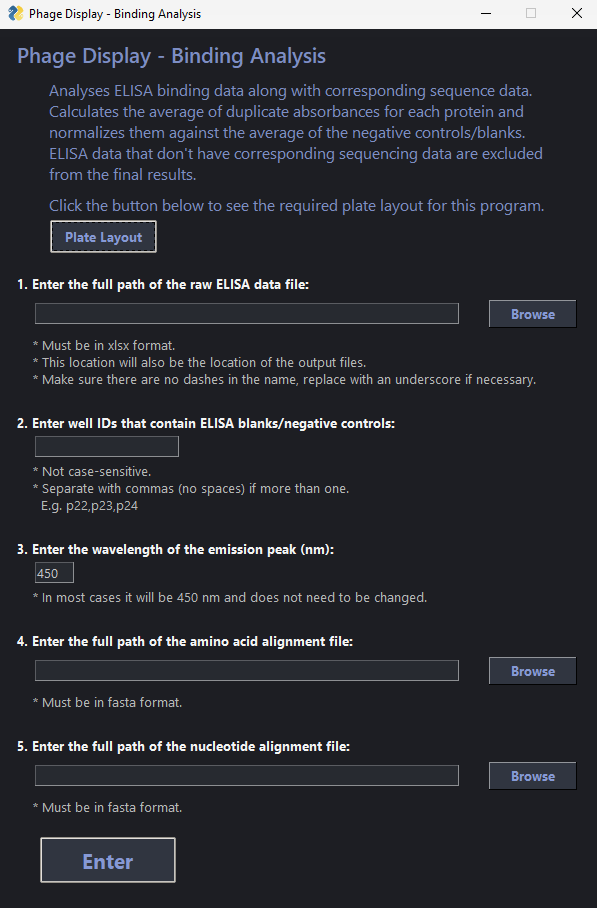
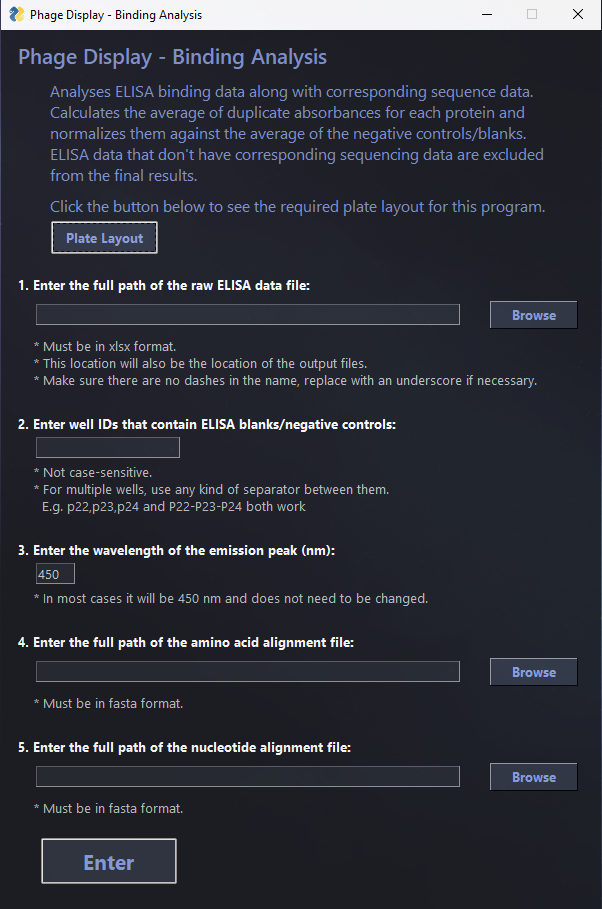
Updated readme's and Binding Analysis GUI
Made Binding Analysis file type browse include both *.xlsx and *.fasta. Fixed broken image link in Binding Analysis readme.

Added GUI images and fixed formatting errors in readme's.

diff --git a/2_bindingAnalysis/gui/source/gui_bindingAnalysis.py b/2_bindingAnalysis/gui/source/gui_bindingAnalysis.py
@@ -77,7 +77,7 @@ layout = [
               ),
      Sg.FileBrowse(font=('Segoe UI Bold', 10),
                    size=(10, 0),
-                   file_types=(('Excel Files', '*.xlsx'), ('All Files', '*.*'),)
+                   file_types=(('Excel/Fasta Files', '*.xlsx;*.fasta'), ('All Files', '*.*'),)
                    )
      ],
     [Sg.Text('''    * Must be in xlsx format.

diff --git a/2_bindingAnalysis/readme.md b/2_bindingAnalysis/readme.md
@@ -4,11 +4,14 @@ Analyses ELISA binding data along with corresponding sequence data. Calculates t
 each protein and normalizes them against the average of the negative controls/blanks. ELISA data that don't have
 corresponding sequencing data are excluded from the final results.
 
+![gui](https://user-images.githubusercontent.com/55511532/137400550-14d8f048-7b04-4d20-b35a-6f8dd54b60f6.png)
+
 ## Details:
 
-* The following ELISA plate layout must be used:
+The following ELISA plate layout must be used:
 
-<img src='https://raw.githubusercontent.com/oroscow/phageDisplayAnalysis/main/2_bindingAnalysis/gui/source/images/plateLayout.png?token=ANHQT3E6IYSNWQTJDIPROSTBMX3P4'>
+![plateLayout](https://user-images.githubusercontent.com/55511532/137400418-06778a2a-5f08-410c-a0de-a90e7cab77b0.png)
+
 
 **Input:** ELISA data (xlsx; formatting dependent on the plate reader, please see _/sampleInputs_ for an example), amino
 acid alignment data (fasta; generic formatting), and nucleotide alignment data (fasta; generic formatting).
@@ -23,7 +26,7 @@ _phageDisplay/2_bindingAnalysis/sampleInputs_ to see the desired layout. In summ
 upon the emission absorbance stated on the right side of the table of raw data; this is used to determine which data to
 extract from the file.  
 * Any assumptions that were made in previous code will be retained. If using the output from the Sequencing Analysis
-program, **the following will apply**:
+program, the following will apply:
 
     a) Sequences that are not full length are excluded.
 
@@ -51,9 +54,9 @@ desktop.
 5. The first time the program is run, Windows may try to prevent you from opening the file in order to protect your PC
 (see below). Click on 'More info' and then click on 'Run anyway'. Once you've done this once, it won't ask again.
 
-<img src='https://external-content.duckduckgo.com/iu/?u=https%3A%2F%2Fmonstersocial.net%2Fwp-content%2Fuploads%2F2015%2F08%2Fwindowsprotectedyourpc.jpg&f=1&nofb=1'>
+![warning](https://external-content.duckduckgo.com/iu/?u=https%3A%2F%2Fmonstersocial.net%2Fwp-content%2Fuploads%2F2015%2F08%2Fwindowsprotectedyourpc.jpg&f=1&nofb=1)
 
-######Image credit to [monstersocial.net](https://monstersocial.net/).
+###### Image credit to [monstersocial.net](https://monstersocial.net/).
 
 Note: Only do this for trusted sources. Be very careful about opening executables sent by strangers and make sure to do
 your due diligence and carefully examine all sources online.

diff --git a/3_conservationAnalysis/readme.md b/3_conservationAnalysis/readme.md
@@ -3,6 +3,8 @@
 Analyses UbV ELISA and/or sequencing data by showing only non-conserved amino acid residues and highlighting regions
 that were targeted for diversification in the original phage display library.
 
+![gui](https://user-images.githubusercontent.com/55511532/137401794-0cef3a9e-2250-418c-8bb8-81fe3e512fef.png)
+
 ## Details:
 
 **Input:** ELISA data (xlsx; formatted same as Binding Analysis output) or amino acid alignment data (fasta; generic
@@ -17,7 +19,7 @@ _phageDisplay/3_conservationAnalysis/sampleInputs_ to see the desired layout. In
 upon the emission absorbance stated on the right side of the table of raw data; this is used to determine which data to
 extract from the file. 
 * Any assumptions that were made in previous code will be retained. When using the output from the Sequencing/Binding
-Analysis programs, **the following will apply**:
+Analysis programs, the following will apply:
 
     a) Sequences that are not full length are excluded.
 
@@ -44,9 +46,9 @@ desktop.
 5. The first time the program is run, Windows may try to prevent you from opening the file in order to protect your PC
 (see below). Click on 'More info' and then click on 'Run anyway'. Once you've done this once, it won't ask again.
 
-<img src='https://external-content.duckduckgo.com/iu/?u=https%3A%2F%2Fmonstersocial.net%2Fwp-content%2Fuploads%2F2015%2F08%2Fwindowsprotectedyourpc.jpg&f=1&nofb=1'>
+![warning](https://external-content.duckduckgo.com/iu/?u=https%3A%2F%2Fmonstersocial.net%2Fwp-content%2Fuploads%2F2015%2F08%2Fwindowsprotectedyourpc.jpg&f=1&nofb=1)
 
-######Image credit to [monstersocial.net](https://monstersocial.net/).
+###### Image credit to [monstersocial.net](https://monstersocial.net/).
 
 Note: Only do this for trusted sources. Be very careful about opening executables sent by strangers and make sure to do
 your due diligence and carefully examine all sources online.

diff --git a/1_sequenceAnalysis/readme.md b/1_sequenceAnalysis/readme.md
@@ -4,6 +4,8 @@ Analyses the University of Guelph's Advanced Analytics Centre (AAC) Genomics Fac
 files are left unaltered and copies are renamed, reorganised, converted to fasta, trimmed, translated, and aligned.
 Final amino acid/nucleotide alignments are in fasta, clustal, and xlsx formats.
 
+![gui](https://user-images.githubusercontent.com/55511532/137400899-cea27a53-72dc-4130-bcb7-eda1edcd1a98.png)
+
 ## Details:
 
 **Input:** Raw DNA Sanger sequencing data from the University of Guelph's Advanced Analytics Centre (AAC) Genomics Facility
@@ -47,9 +49,9 @@ desktop.
 5. The first time the program is run, Windows may try to prevent you from opening the file in order to protect your PC
 (see below). Click on 'More info' and then click on 'Run anyway'. Once you've done this once, it won't ask again.
 
-<img src="https://external-content.duckduckgo.com/iu/?u=https%3A%2F%2Fmonstersocial.net%2Fwp-content%2Fuploads%2F2015%2F08%2Fwindowsprotectedyourpc.jpg&f=1&nofb=1">
+![warning](https://external-content.duckduckgo.com/iu/?u=https%3A%2F%2Fmonstersocial.net%2Fwp-content%2Fuploads%2F2015%2F08%2Fwindowsprotectedyourpc.jpg&f=1&nofb=1)
 
-######Image credit to [monstersocial.net](https://monstersocial.net/).
+###### Image credit to [monstersocial.net](https://monstersocial.net/).
 
 Note: Only do this for trusted sources. Be very careful about opening executables sent by strangers and make sure to do
 your due diligence and carefully examine all sources online.
